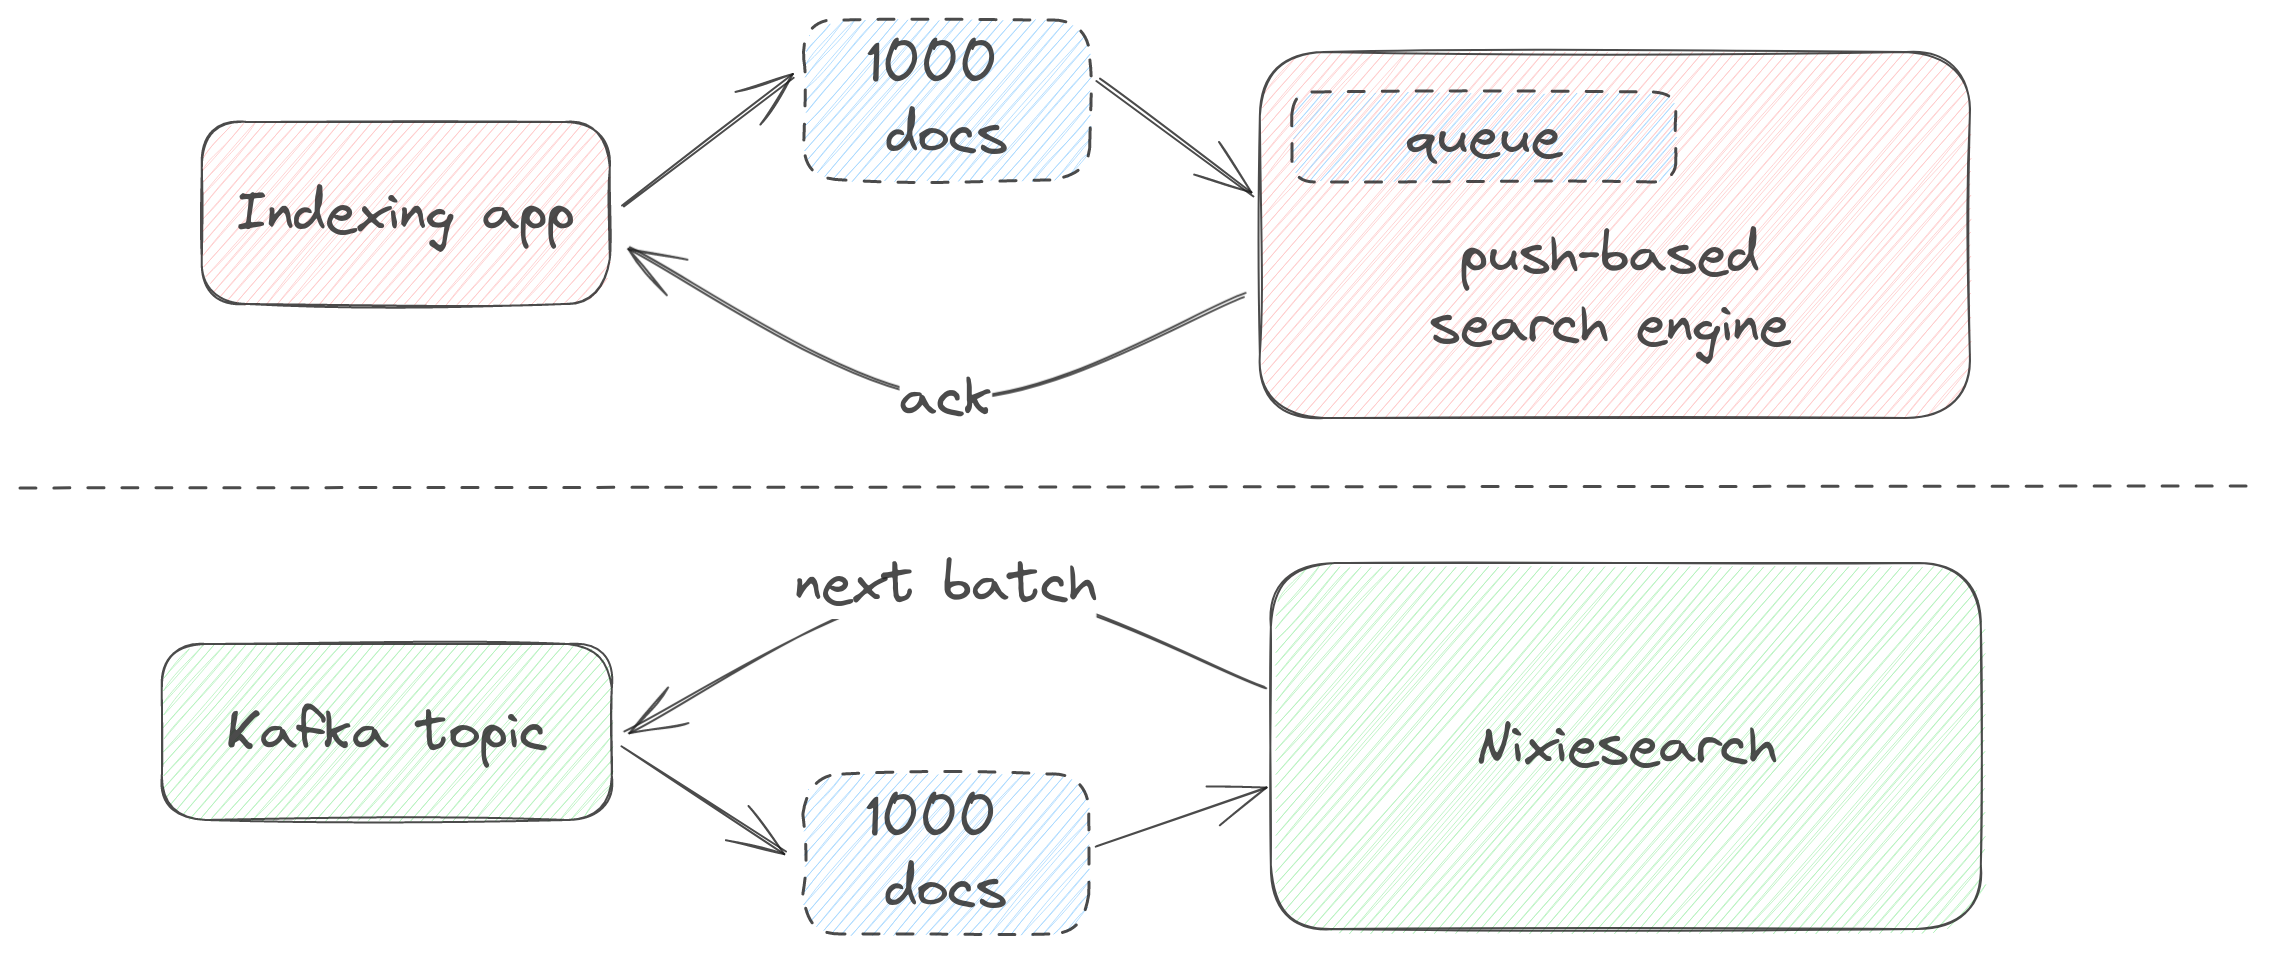
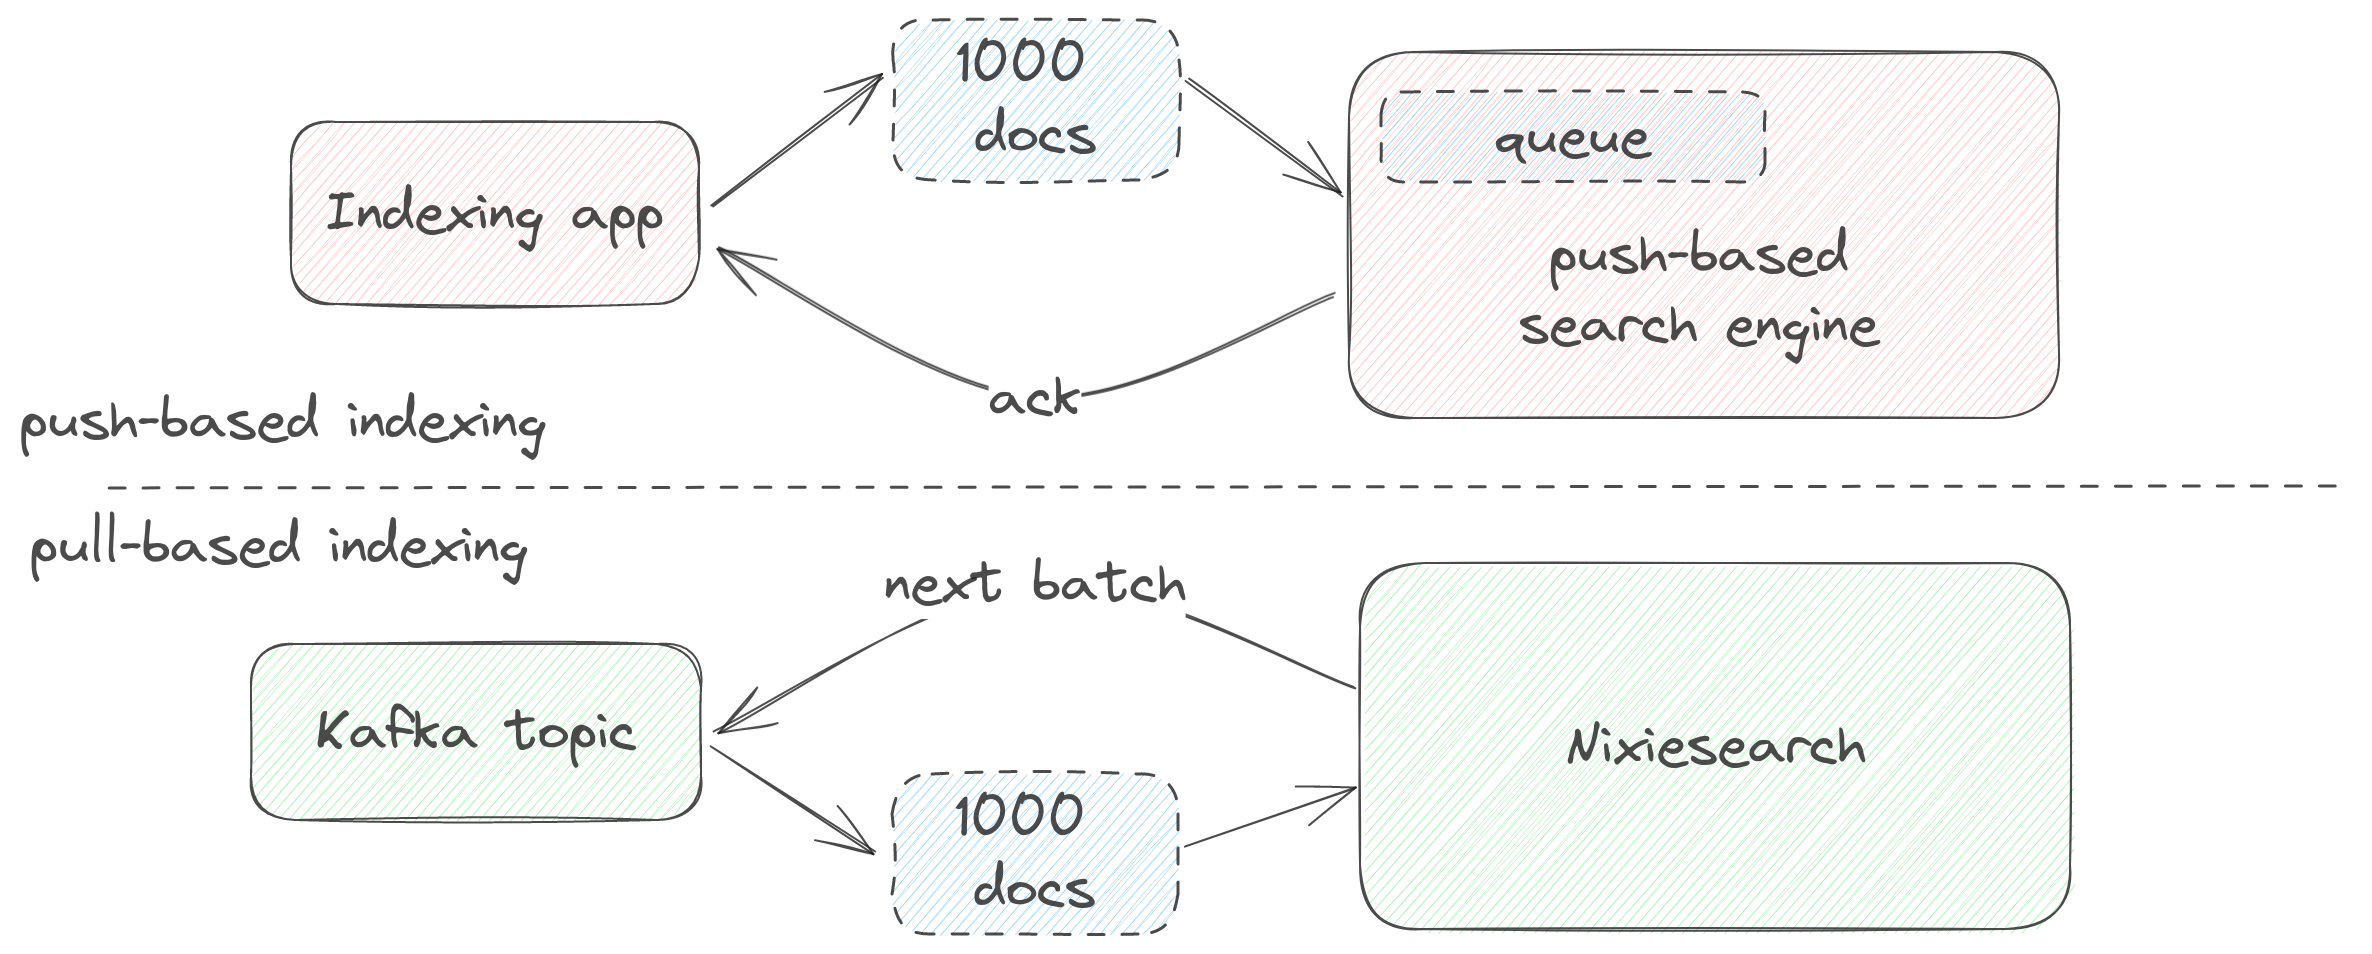
doc: concepts-indexing

diff --git a/docs/docs/concepts/indexing.md b/docs/docs/concepts/indexing.md
@@ -2,7 +2,14 @@
 
 Nixiesearch index is a searchable group of documents sharing the same structure. 
 
-There are two ways to create an index:
+To add a set of documents to an index, you need to perform two steps:
+
+* define an [index mapping](#index-mapping) either [statically in a config file](#static-index-mapping), or [dynamically](#dynamic-index-mapping) - let Nixiesearch figure out the best mapping based on documents you write.
+* write documents to the index, either with push-based REST API or with pull-based stream ingestion.
+
+## Index mapping
+
+There are two ways of creating an index mapping:
 
 * defining a [static index mapping](index.md#static-index-mapping) in a config file, when you manually define which fields your documents have, their types and how they are going to be searched. This allows more control over the way documents are stored and searched, but unfortunately requires reading this documentation.
 * ingesting your [JSON documents](../reference/api/index/document-format.md) as-is without any mapping, and make Nixiesearch deduce the [dynamic index mapping](index.md#dynamic-index-mapping) on the fly from your documents format.
@@ -53,7 +60,7 @@ search:
 To see how Nixiesearch generates mappings for your documents, you can hit the `GET /<index>/_mapping` endpoint after indexing a single document:
 
 ```bash
-curl -XPOST -d '{"title": "a", "color": ["red"], "meta": {"asin":"a"}}'\
+curl -XPUT -d '{"title": "a", "color": ["red"], "meta": {"asin":"a"}}'\
   http://localhost:8080/dev/_index
 ```
 
@@ -122,3 +129,53 @@ Each field definition in a static mapping has two groups of settings:
 * Global parameters - is this field filterable, facetable and sortable.
 
 Go to [the mapping reference](../reference/config/mapping.md) section for more details on all parameters.
+
+## Writing documents to an index
+
+Internally Nixiesearch implements a pull-based indexing - the service itself asks for a next chunk of documents from an upstream system. 
+
+![push pull](../img/pullpush.png)
+
+For convenience, Nixiesearch can emulate a push-based approach via REST API - your app should send a payload with documents and wait for an acknowledgement.
+
+### Indexing REST API
+
+Each Nixiesearch index has an `_index` REST endpoint where you can [HTTP PUT](https://developer.mozilla.org/en-US/docs/Web/HTTP/Methods/PUT) your documents to.
+
+This endpoint expects a JSON payload in [one of the following formats](../reference/api/index/document-format.md):
+
+* JSON object: just a single document.
+* JSON array of objects: a batch of documents.
+* JSON-Line array of objects: also a batch of documents, but simpler wire format.
+
+For example, writing a single document to an index can be done with a cURL command:
+
+```bash
+curl -XPUT -d '{"title": "hello", "color": ["red"], "meta": {"sku":"a123"}}'\
+  http://localhost:8080/dev/_index
+```
+
+> As Nixiesearch deliberately has no indexing queue, it asynchronously blocks till all the documents in the submitted batch were indexed. You should avoid doing HTTP PUT's with too large payloads and instead split them into smaller batches of 100-500 documents.
+
+### Streaming document indexing
+
+> This feature is still in development and part of v0.1 roadmap
+
+With pull-based streaming indexing it becomes trivial to support these typical scenarios:
+
+1. **Batch full re-indexing**: take all documents from a datasource and periodically re-build index from scratch.
+2. **Distributed journal as a single source of truth**: use [Kafka compacted topics](https://developer.confluent.io/courses/architecture/compaction/) as a view over last versions of documents, with real-time updates.
+3. **Large dataset import**: import a complete set of documents from local/S3 files, maintaining optimal throughput and batching.
+
+![kafka streaming](../img/kafka.png)
+
+ Nixiesearch supports [Apache Kafka](https://kafka.apache.org/), [AWS S3](https://aws.amazon.com/s3/) (and also compatible object stores) and local files as a source of documents for indexing.
+ 
+If you have your dataset in a JSON file, instead of making HTTP PUT with very large payload using REST API, you can invoke a `nixiesearch index` sub-command to perform streaming indexing in a separate process:
+
+```shell
+docker run -i -t -v <your-local-dir>:/data nixiesearch/nixiesearch:latest index\
+  --config /data/conf.yml --index <index name> --source file:///data/docs.json
+```
+
+Where `<your-local-dir>` is a directory containing the `conf.yml` config file and a `docs.json` with documents for indexing.
